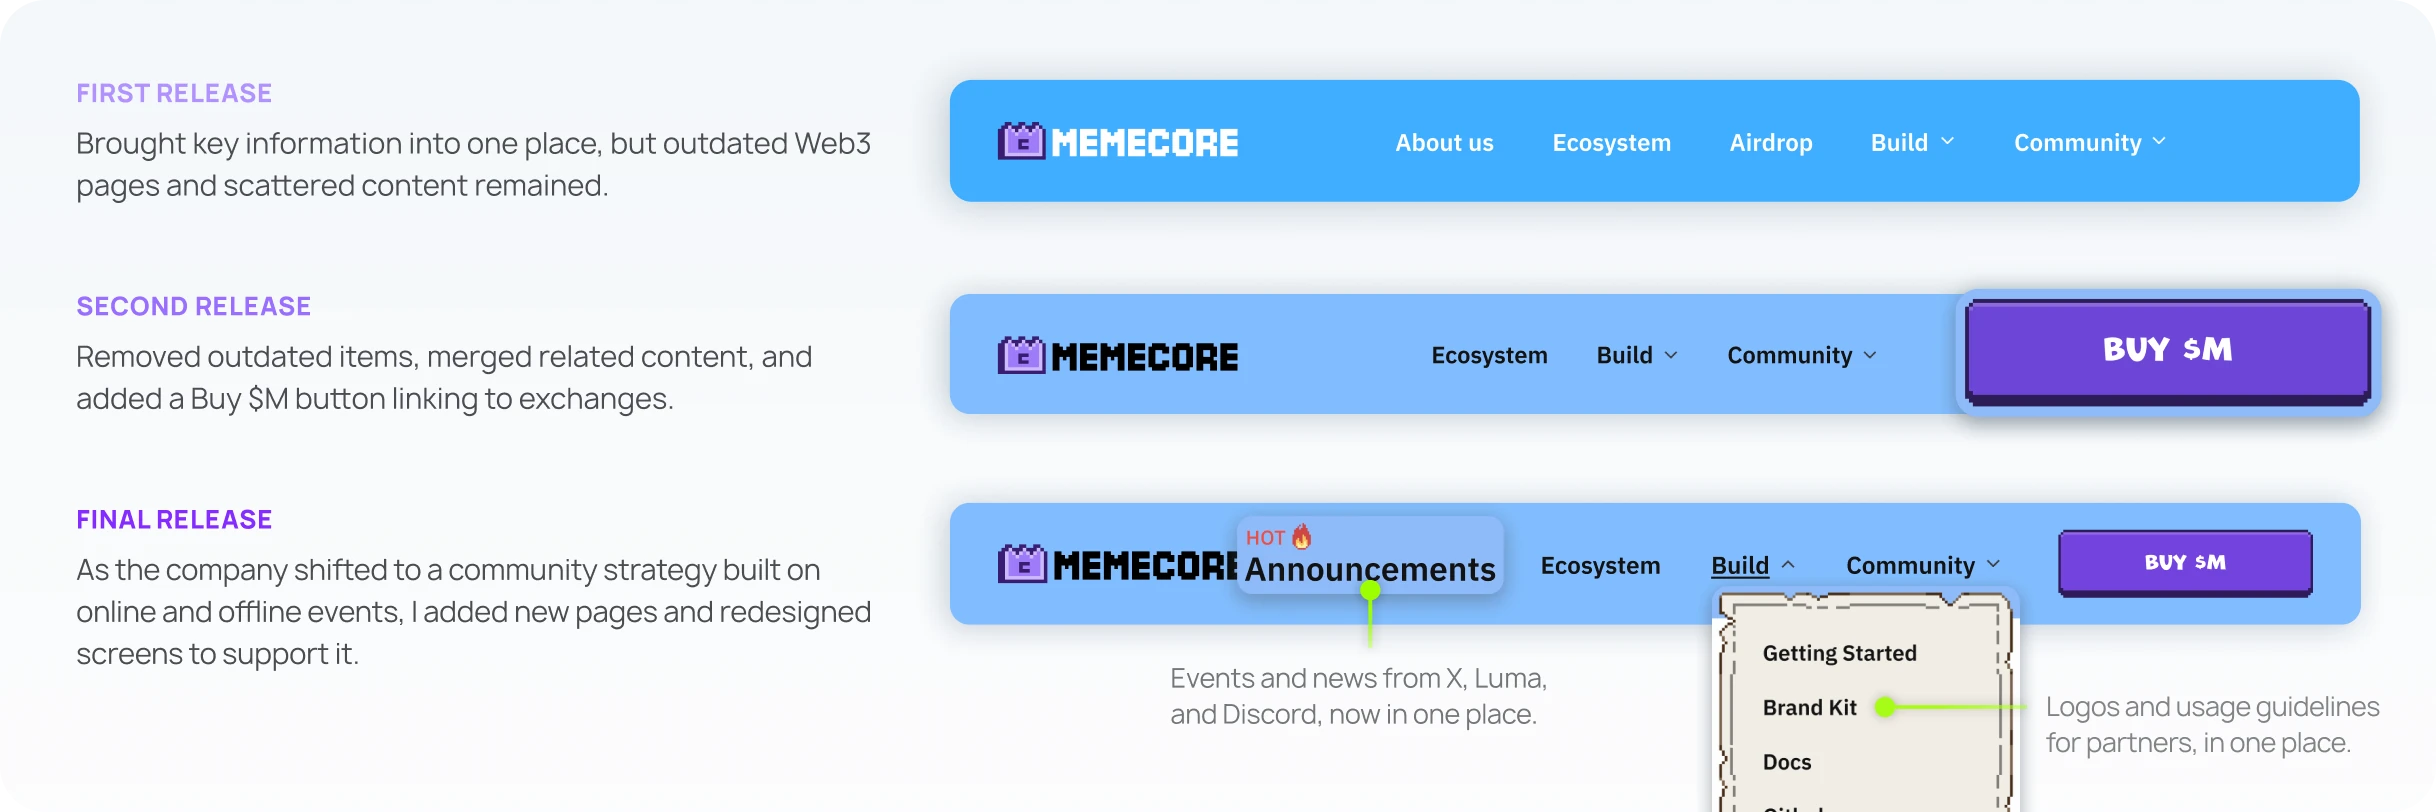
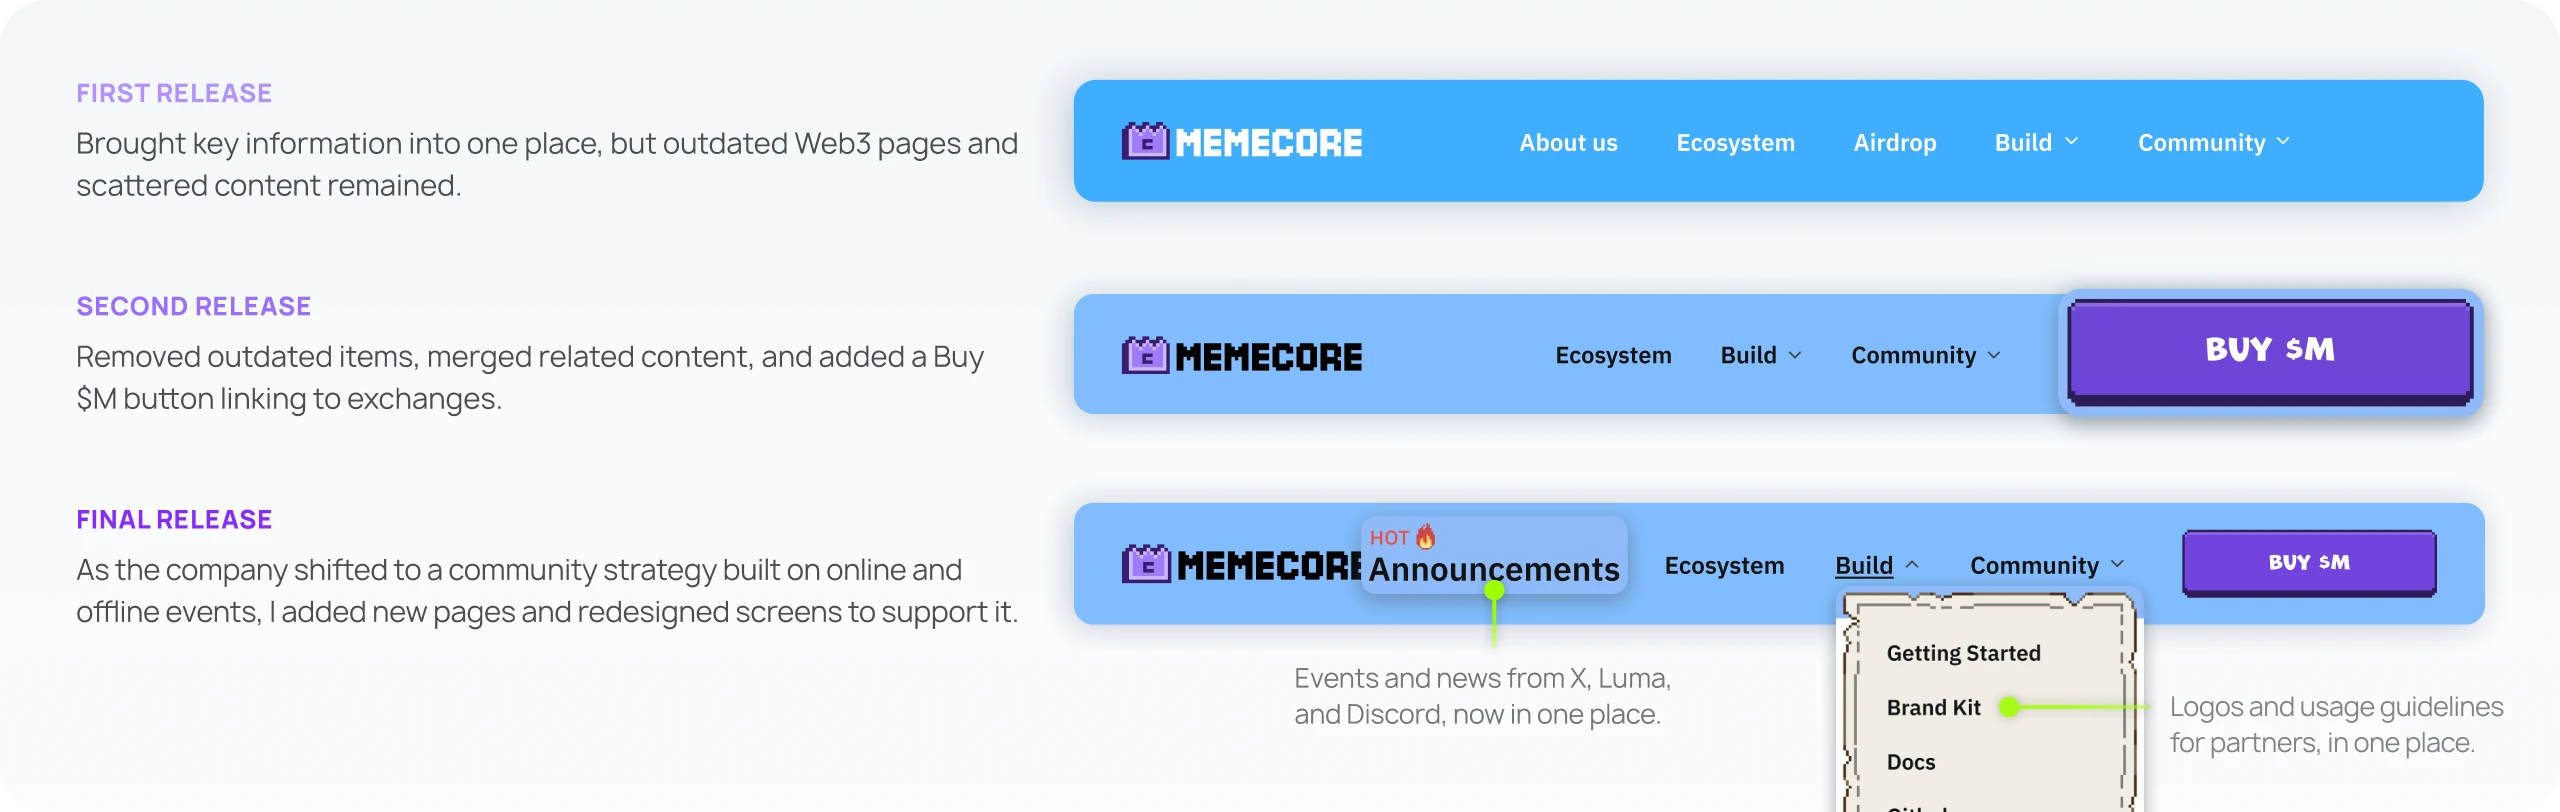
MemeCore: nav release panel widened to 1280px to match the IA panel

diff --git a/work/memecore/index.html b/work/memecore/index.html
@@ -323,7 +323,7 @@
         <p class="mc-lead mc-lead--nav">To build a clear hierarchy, I analyzed three sources. Users' frequent questions showed what to surface first, the business model set the priorities, and Web3 services like Sui and Monad showed familiar navigation patterns.</p>
       </div>
       <div class="mc-stack mc-stack--40">
-        <img class="mc-shotimg mc-shotimg--navs" src="../../assets/images/memecore/di1-navs.webp?v=4" width="1218" height="406" alt="Navigation across three releases. First release: brought key information into one place, but outdated Web3 pages and scattered content remained. Second release: removed outdated items, merged related content, and added a Buy $M button linking to exchanges. Final release: as the company shifted to a community strategy built on online and offline events, added new pages such as Announcements and redesigned screens." loading="lazy">
+        <img class="mc-shotimg" src="../../assets/images/memecore/di1-navs.webp?v=5" width="1280" height="406" alt="Navigation across three releases. First release: brought key information into one place, but outdated Web3 pages and scattered content remained. Second release: removed outdated items, merged related content, and added a Buy $M button linking to exchanges. Final release: as the company shifted to a community strategy built on online and offline events, added new pages such as Announcements and redesigned screens." loading="lazy">
         <img class="mc-shotimg" src="../../assets/images/memecore/sitemap.webp?v=6" width="1280" height="383" alt="Sitemap before: 7 menus hidden away, so users didn't know where to start. After: 5 menus, built around users' top questions and the business, with a new Announcement menu, a renewed Ecosystem and a new Build menu." loading="lazy">
       </div>
     </div>

diff --git a/work/memecore/memecore.css b/work/memecore/memecore.css
@@ -1301,7 +1301,6 @@
 
 .mc-block--insight { padding-bottom: 120px; }
 .mc-shotimg { display: block; width: 100%; height: auto; }
-.mc-shotimg--navs { max-width: 1218px; }
 
 /* ── Timeline (Figma 6730:105453): arrow line + dots + release cards ── */
 .mc-tl { position: relative; }
